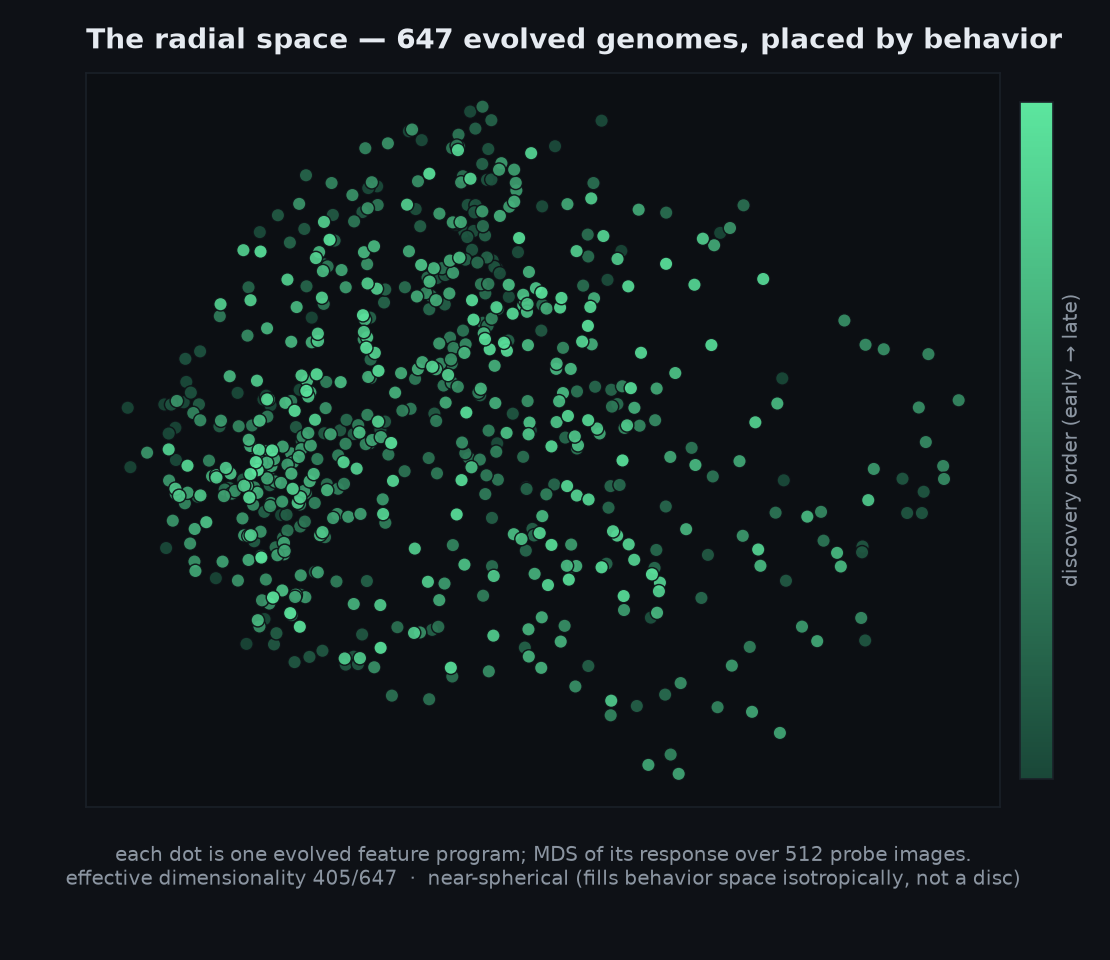
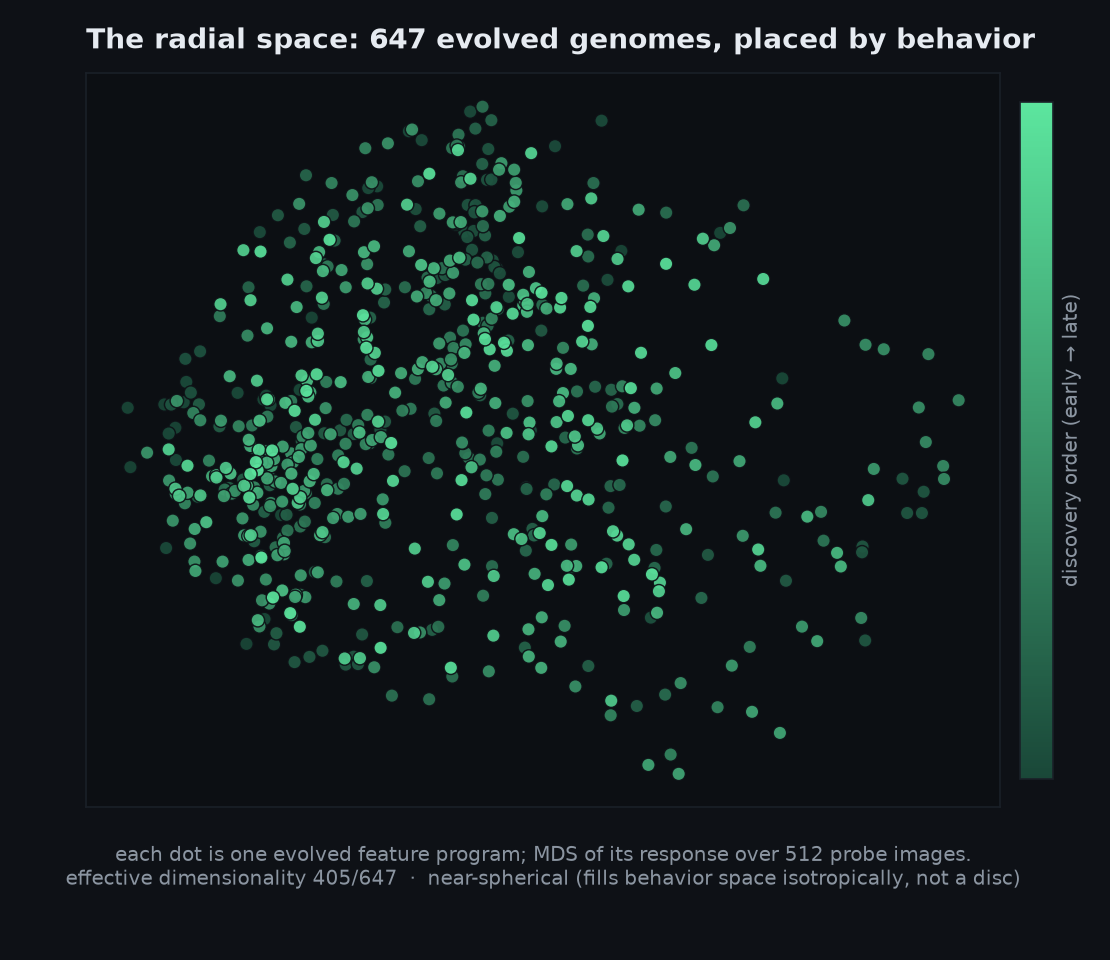
README: remove em dashes (prose + genome-map chart title)

Changed region(s): [[0.3063, 0.0312, 0.9495, 0.0625]]

diff --git a/README.md b/README.md
@@ -1,17 +1,17 @@
-# GENREG — Gradient-Free Neuroevolution
+# GENREG: Gradient-Free Neuroevolution
 
 **Evolve the features; don't design them.** Every model here is bred by
-selection, energy homeostasis, and constraints — *no gradients, no backprop, no
-pretrained weights*. The guiding thesis:
+selection, energy homeostasis, and constraints, with *no gradients, no backprop,
+no pretrained weights*. The guiding thesis:
 
 > The fitness landscape is the only lever that matters. Don't design the
-> solution — design conditions where the only stable attractor **is** the
+> solution; design conditions where the only stable attractor **is** the
 > solution.
 
 The centerpiece is the **radial space**: a way of treating a dataset as an
 environment that evolved *feature programs* (genomes) navigate. On CIFAR-10, a
 population of tiny gradient-free genomes **passes hand-crafted features and keeps
-climbing** — all without a single gradient step.
+climbing**, all without a single gradient step.
 
 ![CIFAR-10 accuracy, gradient-free](docs/images/cifar_progression.png)
 
@@ -21,7 +21,7 @@ climbing** — all without a single gradient step.
 
 A **lens** is a deterministic feature program at a fixed address. Data flows
 through lenses; it is the *relative* motion between the data and the lens that
-manufactures signal diversity. Evolution doesn't build the embedding space — it
+manufactures signal diversity. Evolution doesn't build the embedding space. It
 is handed one built from the data's own statistics (patch-PCA maps: *"the
 features are the environment"*) and learns **one tiny relationship inside it**.
 
@@ -40,21 +40,21 @@ flowchart LR
 
 Each round breeds a population under **tournament selection + energy
 homeostasis**, freezes the top *decorrelated, contributing* survivors as
-columns, and reads them out with a **closed-form ridge** — no gradient anywhere.
+columns, and reads them out with a **closed-form ridge**, no gradient anywhere.
 When one space stops earning, its outputs become the data for a **new stacked
 space**, so depth emerges from scarcity rather than a hyperparameter.
 
 Fingerprinting 647 evolved genomes by their behavior (their response over a
-fixed probe set) and projecting to a map shows what evolution actually built —
+fixed probe set) and projecting to a map shows what evolution actually built:
 a near-spherical cloud that fills behavior space isotropically, with an
 **effective dimensionality of 405 / 647** (≈9× more efficient than enumerating
 a lens bank):
 
-![The radial space — genome behavior map](docs/images/genome_map.png)
+![The radial space, genome behavior map](docs/images/genome_map.png)
 
 ---
 
-## The genome — an evolved feature program
+## The genome: an evolved feature program
 
 Nothing about the feature is hand-designed; every structural property is a
 **gene**. Evolution decides scale, which components to read, how deep to bend
@@ -68,8 +68,8 @@ flowchart TB
   W --> OUT["→ one scalar feature<br/>(or a 4×4 grid to stack)"]
 ```
 
-The human contribution is only the math primitives — an 8-function activation
-catalog, a few combine ops and pooling stats — and the data statistics
+The human contribution is only the math primitives (an 8-function activation
+catalog, a few combine ops and pooling stats) and the data statistics
 (patch-PCA, built *from* the images). The **residual skip** `h ← h + gain·f`
 is itself a gene: evolution rediscovers that residual depth is useful with zero
 gradient signal (deep blocks survive selection; new blocks bootstrap as
@@ -93,14 +93,14 @@ throughout. Non-evolved references in gray.
 | **4-seed cross-seed ensemble** | **0.757** | diversity is nearly free |
 | **7-substrate union** | **0.770** | best gradient-free result on this line |
 
-Gradient ResNet-20 (backprop) sits at ≈0.91 — a different regime. The story here
+Gradient ResNet-20 (backprop) sits at ≈0.91, a different regime. The story here
 is not "we matched ResNet"; it is that **evolution, with no gradients, discovers
 useful visual features and stacks them into a working hierarchy.**
 
 A recent thread (`documentation/changelogs/CHANGELOG_RESNET.md`) built evolved
 **residual** networks and showed gradient-free *stacking* beating a single deep
 space (0.6638 vs 0.6593) once each space passes **spatial grids** (not scalars)
-to the next and the base space is allowed to **mature** — the emergent-cap
+to the next and the base space is allowed to **mature**: the emergent-cap
 stacking idea in `documentation/stacking.txt`, realized.
 
 ---
@@ -111,12 +111,12 @@ The full thesis and invariants live in
 [`documentation/GENREG_RULES.md`](documentation/GENREG_RULES.md). The load-bearing ones:
 
 - **No gradients, no backprop, no hybrid.** Evolution climbs staircases that
-  gradients can't — step functions, integer ops, conditionals.
+  gradients can't: step functions, integer ops, conditionals.
 - **Soft fitness only** (mean log-prob, not `argmax==target`) so there is a
   gradient to climb; **multiplicative over additive** so it can't collapse to a
   mean-seeker.
-- **Energy is homeostatic, not a reward** — it decides who survives, targeting
-  3–15% starved per generation.
+- **Energy is homeostatic, not a reward.** It decides who survives, targeting
+  3-15% starved per generation.
 - **The landscape is designed, not given.** Every scalar proxy gets
   reward-hacked; anchor fitness to position-varying ground truth.
 - **Component-first**: each piece clears a local *and* a downstream bar before